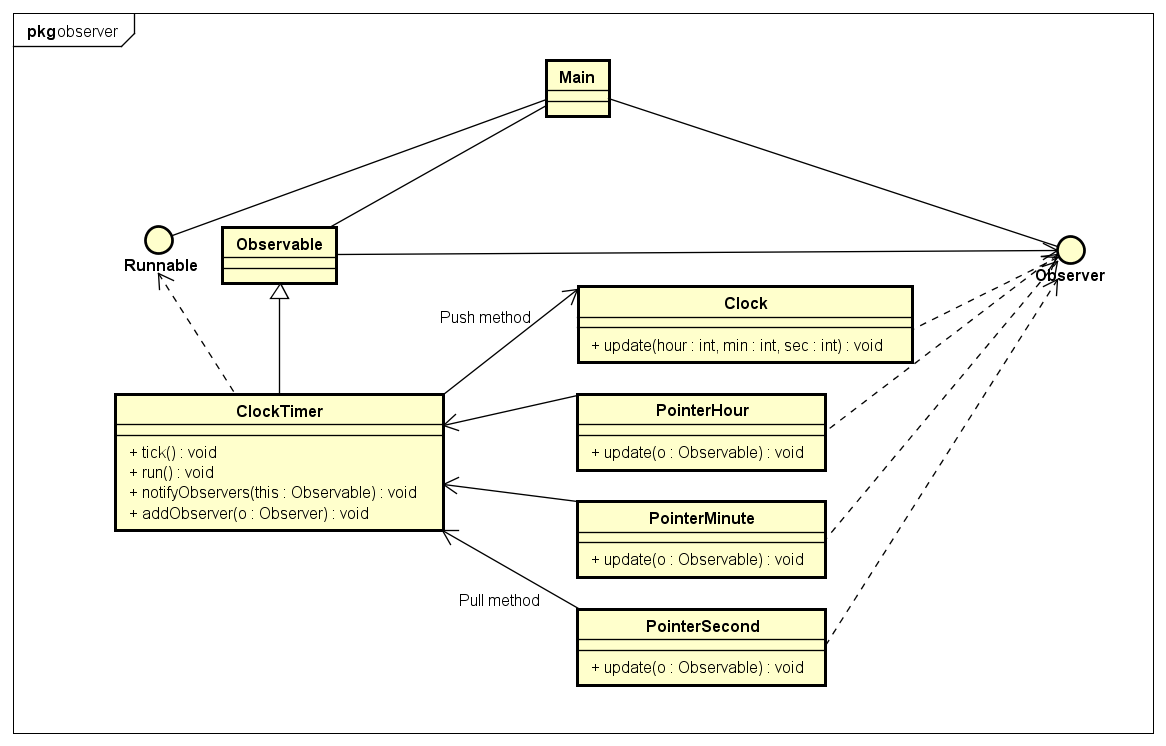
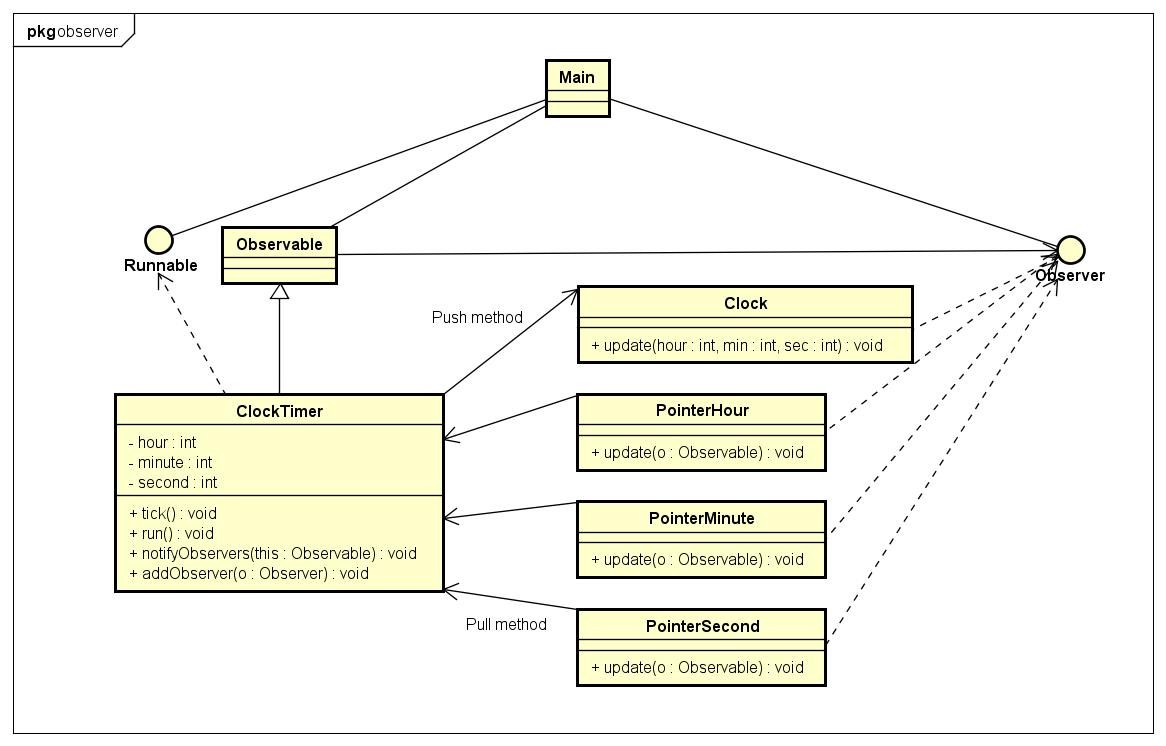
Updated DP04 UML - ClockTimer contains class variables now
- Removed empty lines from a couple of .java files

diff --git a/DP04_observer/DP04_observer/src/observer/ClockTimer.java b/DP04_observer/DP04_observer/src/observer/ClockTimer.java
@@ -46,7 +46,6 @@ public class ClockTimer extends Observable implements Runnable {
                         clock.update(hour, minute, second);
                     }
                 }
-                
             }
         }
     }
@@ -63,7 +62,7 @@ public class ClockTimer extends Observable implements Runnable {
         return second;
     }
 
-    // This is done to make the observer "push" model possible
+    // This is done to make the observer push model possible
     @Override
     public void addObserver(Observer o) {
         this.observers.add(o);

diff --git a/DP04_observer/DP04_observer/src/observer/Main.java b/DP04_observer/DP04_observer/src/observer/Main.java
@@ -10,7 +10,7 @@ import java.util.Observer;
 public class Main {
 
     public static void main(String[] args) {
-        // Create observer
+        // Create observers
         Observer clock = new Clock();
         Observer pointerHour = new PointerHour();
         Observer pointerMinute = new PointerMinute();
